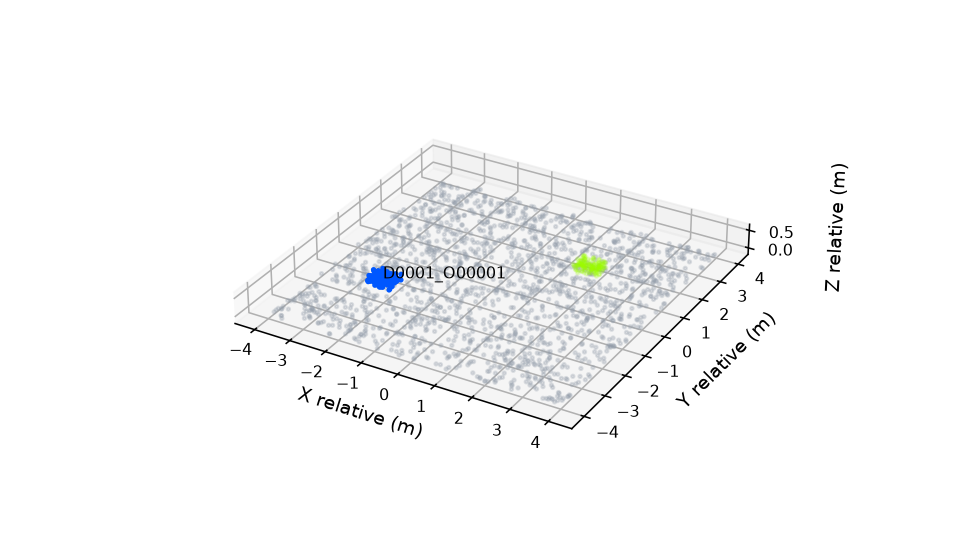
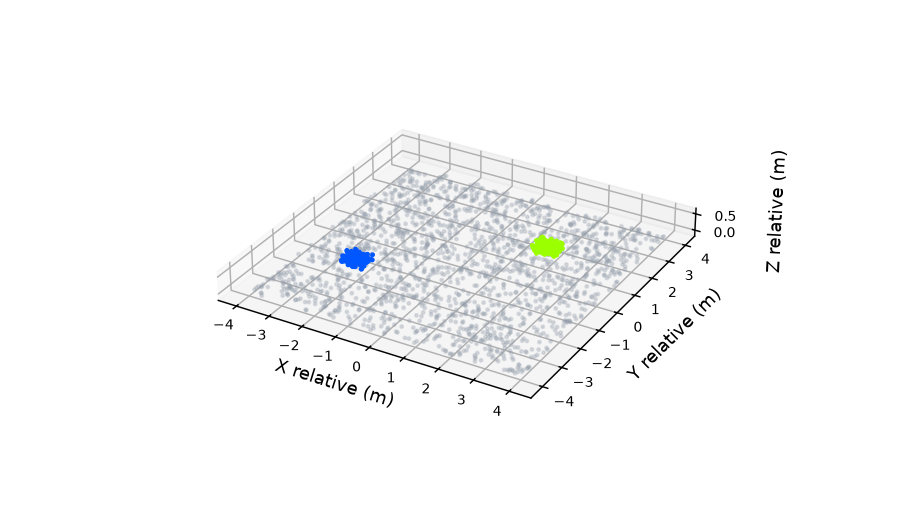
Document bounded display caches and ten passing workflow tests

diff --git a/docs/Software_Architecture.md b/docs/Software_Architecture.md
@@ -32,3 +32,7 @@ Voxelisation must retain an explicit mapping back to original points. Tiled proc
 Target classes, annotation effort, final train/validation/test scenes, area definition, intensity and confidence treatment, output precision, supported platform versions, hardware, object-level quality metrics and acceptance thresholds remain project decisions. See the original v0.2 requirements.
 
 The current processing strategy is full-file CPU execution, with explicit size limits. It does not provide learning-based instance separation, full-waveform integration, large-cloud tiling or cross-file duplicate merging.
+
+## Display memory update
+
+The application is titled Object Detection. Processing creates a separate display cache with at most 30,000 original points, deterministic instance representatives and original point indices. The UI can reduce this to 1,000, 5,000 or 10,000 points. Reports and exports retain full-resolution detected points. Legacy NPZ caches above 32 MiB uncompressed are rejected before decompression. The default 500,000-point processing limit remains; this update does not implement large-cloud tiled inference.
